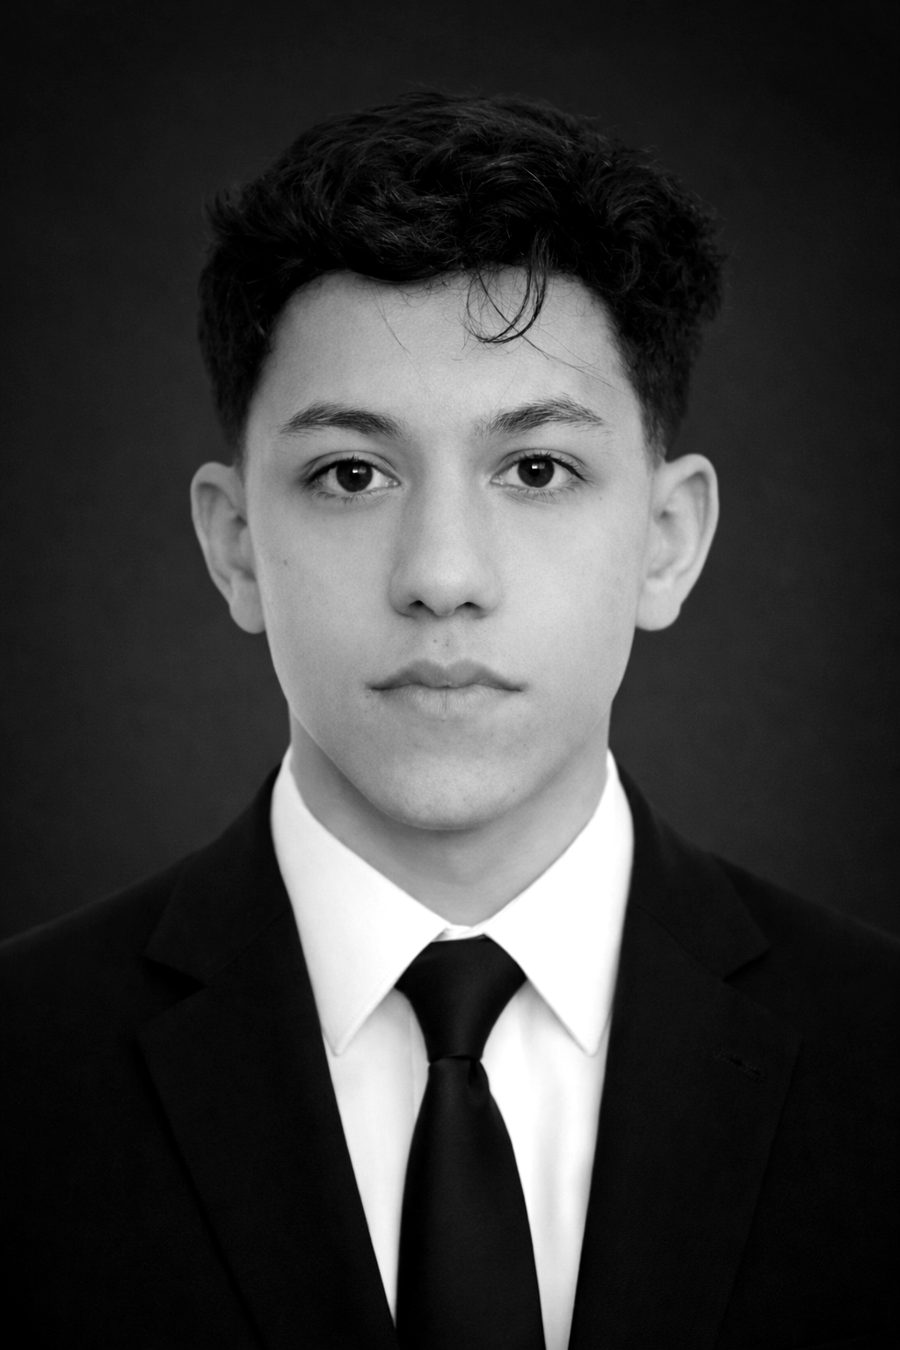
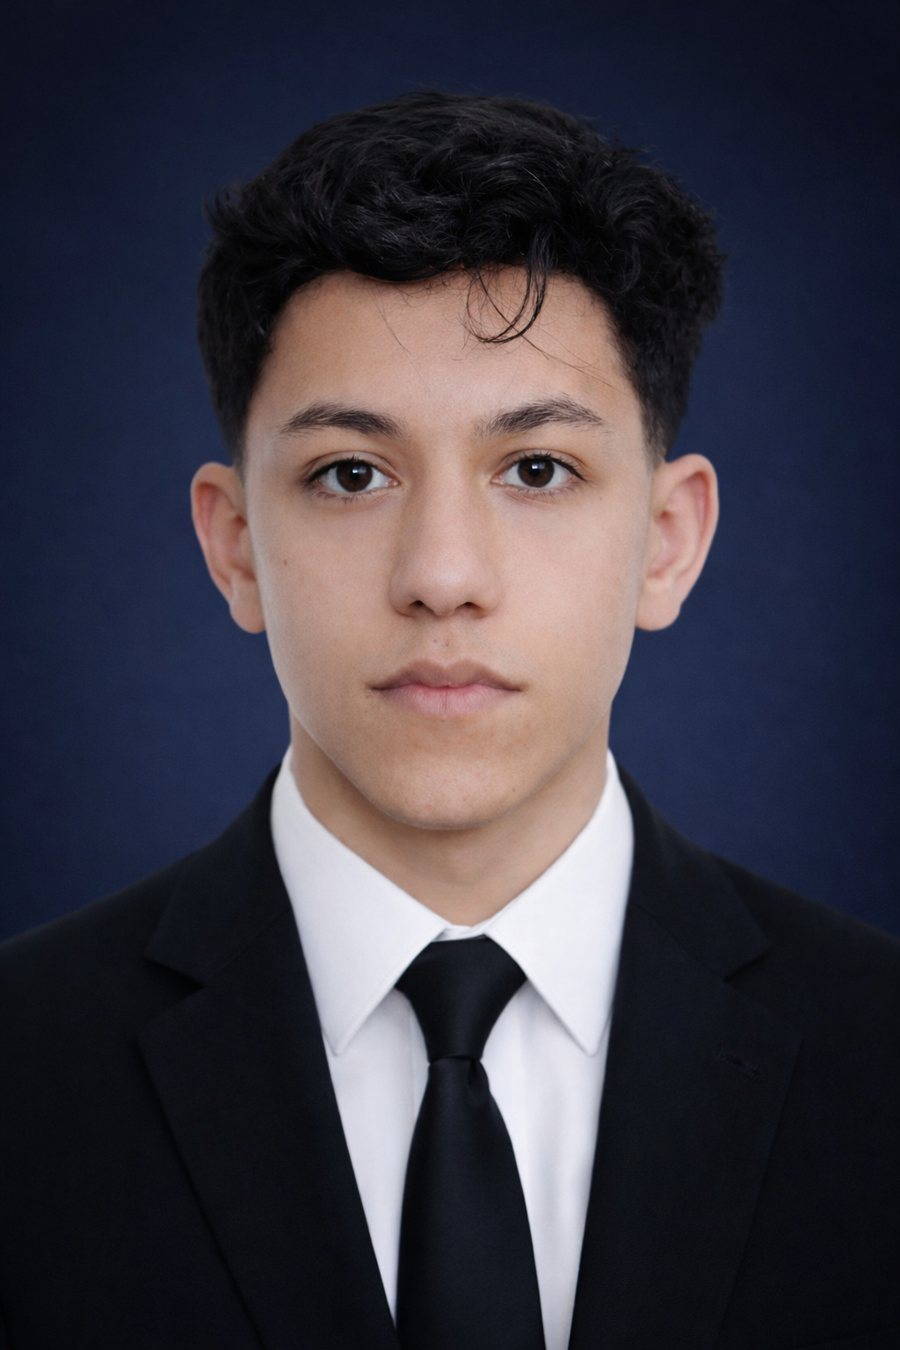
Color portrait and add Hobbies section

diff --git a/src/components/Sections.tsx b/src/components/Sections.tsx
@@ -1,7 +1,7 @@
 import { motion, useInView, useScroll, useTransform, animate, MotionValue } from "framer-motion";
 import { useEffect, useRef, useState, ComponentType } from "react";
 import dynamic from "next/dynamic";
-import { profile, stats, experience, projects, skills, languages, education, certifications, Entry, DemoKind } from "@/data/content";
+import { profile, stats, experience, projects, skills, languages, education, certifications, hobbies, Entry, DemoKind } from "@/data/content";
 import { Reveal, SectionHeader, DemoCaption, Arrow, ease } from "./ui";
 import { SkillIcon, tickerIcons, SiGithub, SiLinkedin } from "./icons";
 
@@ -317,6 +317,71 @@ export function Credentials() {
   );
 }
 
+/* ───────────── Hobbies ───────────── */
+
+function HobbyIcon({ id }: { id: string }) {
+  if (id === "fitness")
+    return (
+      <svg viewBox="0 0 64 64" className="h-14 w-14 transition-transform duration-700 group-hover:-rotate-12" aria-hidden>
+        <g fill="none" stroke="currentColor" strokeWidth="2.5" strokeLinecap="round">
+          <path d="M20 32h24" />
+          <rect x="10" y="20" width="8" height="24" rx="2" />
+          <rect x="46" y="20" width="8" height="24" rx="2" />
+          <path d="M6 26v12M58 26v12" />
+        </g>
+      </svg>
+    );
+  return (
+    <svg viewBox="0 0 64 64" className="h-14 w-14 transition-transform duration-700 group-hover:scale-110" aria-hidden>
+      <g fill="none" stroke="currentColor" strokeWidth="2.5" strokeLinecap="round" strokeLinejoin="round">
+        <path d="M24 20L12 32l12 12M40 20l12 12-12 12M35 16l-6 32" />
+      </g>
+    </svg>
+  );
+}
+
+export function Hobbies() {
+  return (
+    <section id="hobbies" className="container-x pb-24 sm:pb-32">
+      <SectionHeader index="06" label="Hobbies" title="Off the clock" />
+      <div className="grid gap-4 md:grid-cols-2">
+        {hobbies.map((h, i) => (
+          <Reveal key={h.id} delay={i * 0.1} className="h-full">
+            <article className="group grain flex h-full flex-col rounded-[14px] border border-ink p-6 sm:p-10" style={{ background: h.tint }}>
+              <div className="flex items-start justify-between">
+                <HobbyIcon id={h.id} />
+                <span className="font-mono text-[11px] text-ink/60">0{i + 1}</span>
+              </div>
+              <h3 className="mt-10 font-serif text-[clamp(2.4rem,4.5vw,3.6rem)] leading-[0.95]">{h.title}</h3>
+              {h.line && <p className="mt-4 max-w-[46ch] text-[16px] leading-snug">{h.line}</p>}
+              {h.links.length > 0 && (
+                <ul className="mt-8 border-t border-ink/20">
+                  {h.links.map((l) => (
+                    <li key={l.label}>
+                      <a
+                        href={l.href}
+                        target="_blank"
+                        rel="noreferrer"
+                        className="group/link flex items-center justify-between gap-4 border-b border-ink/20 py-3 transition-colors hover:border-ink"
+                      >
+                        <span>
+                          <span className="block text-[15px] font-medium">{l.label}</span>
+                          <span className="block text-[13px] text-ink/70">{l.note}</span>
+                        </span>
+                        <Arrow className="shrink-0 transition-transform group-hover/link:-translate-y-0.5 group-hover/link:translate-x-0.5" />
+                      </a>
+                    </li>
+                  ))}
+                </ul>
+              )}
+            </article>
+          </Reveal>
+        ))}
+      </div>
+    </section>
+  );
+}
+
 /* ───────────── Contact ───────────── */
 
 export function Contact() {
@@ -333,7 +398,7 @@ export function Contact() {
   return (
     <section id="contact" className="bg-ink text-paper">
       <div className="container-x pb-10 pt-24 sm:pt-36">
-        <p className="label text-white/50">(06) Contact</p>
+        <p className="label text-white/50">(07) Contact</p>
         <h2 className="mt-8 font-serif text-[clamp(3.8rem,13vw,11rem)] leading-[0.86] tracking-[-0.02em]">
           <span className="block overflow-hidden">
             <motion.span className="block" initial={{ y: "100%" }} whileInView={{ y: 0 }} viewport={{ once: true }} transition={{ duration: 1, ease }}>

diff --git a/src/data/content.ts b/src/data/content.ts
@@ -204,3 +204,20 @@ export const certifications = [
   { code: "AZURE", name: "Microsoft Certification, Azure / AI", issuer: "Microsoft", year: "2025", href: "" },
   { code: "DELF", name: "Diplôme d'études en langue française", issuer: "France Éducation international", year: "2020", href: "" },
 ];
+
+export const hobbies = [
+  {
+    id: "fitness",
+    title: "Fitness",
+    line: "Proof of extreme discipline.",
+    tint: "#ffdcd0",
+    links: [] as { label: string; note: string; href: string }[],
+  },
+  {
+    id: "building",
+    title: "Building side projects",
+    line: "",
+    tint: "#dde7ff",
+    links: [] as { label: string; note: string; href: string }[],
+  },
+];

diff --git a/src/components/Hero.tsx b/src/components/Hero.tsx
@@ -10,6 +10,7 @@ const links = [
   { href: "#projects", label: "Projects" },
   { href: "#skills", label: "Skills" },
   { href: "#credentials", label: "Credentials" },
+  { href: "#hobbies", label: "Hobbies" },
   { href: "#contact", label: "Contact" },
 ];
 
@@ -164,7 +165,7 @@ export function Hero() {
             <motion.img
               src={`${base}/photo/portrait.jpg`}
               alt="Portrait of Kheireddine Bouadi"
-              className="h-[118%] w-full object-cover object-top grayscale"
+              className="h-[118%] w-full object-cover object-top"
               style={{ y: imgY }}
               initial={{ scale: 1.25 }}
               animate={{ scale: 1 }}

diff --git a/src/pages/index.tsx b/src/pages/index.tsx
@@ -1,6 +1,6 @@
 import Head from "next/head";
 import { Nav, Hero } from "@/components/Hero";
-import { Ticker, About, Experience, Projects, Skills, Credentials, Contact } from "@/components/Sections";
+import { Ticker, About, Experience, Projects, Skills, Credentials, Hobbies, Contact } from "@/components/Sections";
 
 export default function Home() {
   return (
@@ -21,6 +21,7 @@ export default function Home() {
         <Projects />
         <Skills />
         <Credentials />
+        <Hobbies />
         <Contact />
       </main>
     </>
